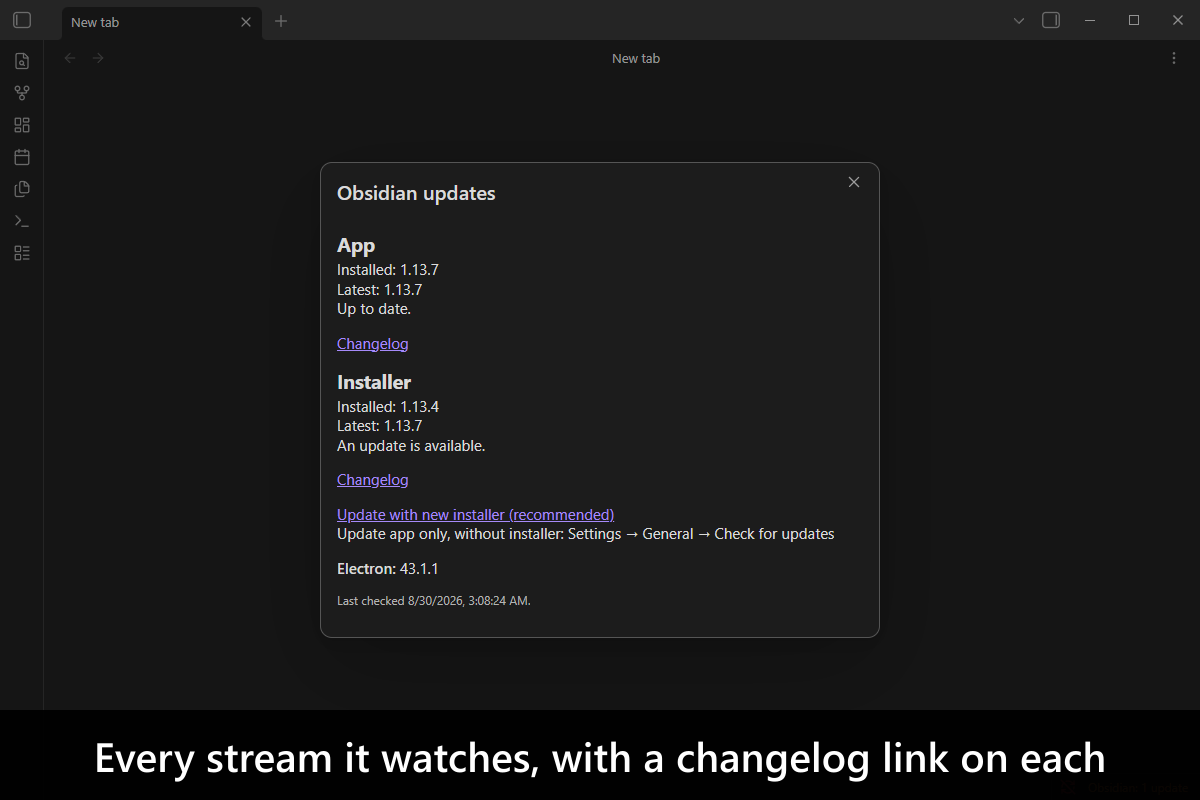
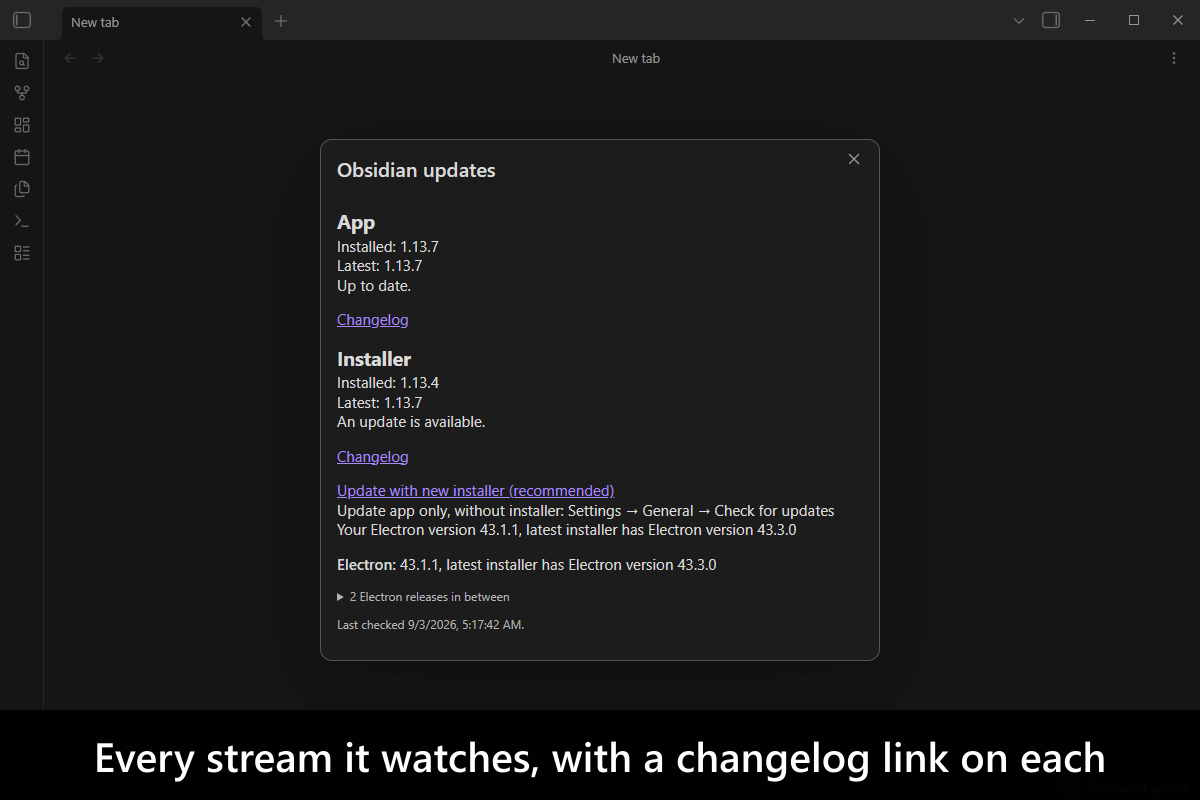
fix(test): pin the capture run's Obsidian, and assert the frame it produces
The store shots could not be recaptured without thought. Shot 2's CONTENT
depended on whichever Obsidian the harness happened to boot: the 2026-09-03
recapture ran against the Catalyst obsidian-1.14.0.asar now provisioned and
rendered "App Installed: 1.14.0 / Latest: 1.13.7 / Up to date." - correct
reporting against the public feed the plugin watches, but a pair that reads as
nonsense to a store visitor, with nothing behind and so no action links at all.
Every assertion the suite had at the time still passed, so the good committed
frame survived only because it was captured on a lucky day.

capture-screenshots:desktop now pins obsidianVersion to public-latest and
obsidianInstallerVersion to 1.13.4. Following the public line keeps the App row
current; an installer frozen well below it keeps the Installer row behind on any
day, because Latest only ever moves up. Shot 2 then asserts that frame - App up
to date, Installer an update is available, and the "Update with new installer
(recommended)" route - so a drifted or unpinned pair fails the capture instead of
overwriting a committed shot. Verified by temporarily un-pinning the installer:
the run failed with "expected 'Installed: 1.13.7Latest: 1.13.7Up to ...' to
contain 'An update is available.'" and left the PNG untouched.

Pinning the installer behind also makes the plugin's own update notice fire on
every run, and the first pinned capture photographed it sitting over the Check
[…]

Changed region(s): [[0.2775, 0.1875, 0.7092, 0.8125]]

diff --git a/src/screenshots.desktop-capture.integration.test.ts b/src/screenshots.desktop-capture.integration.test.ts
@@ -34,9 +34,23 @@
  * premise that `open()` returns without attaching; that premise does not hold for the Obsidian this
  * harness provisions, and the pre-append is gone with it.
  *
- * There is deliberately no "an update is available" shot. Whether anything is behind depends on what
- * Obsidian has released this week and on the version the harness happens to boot, so such a frame could
- * not be produced on demand — and a staged one would be a picture of something the plugin never did.
+ * **Shot 2's content is PINNED, not observed.** Whether anything is behind depends on what Obsidian has
+ * released this week and on the version the harness happens to boot, and left to chance the shot silently
+ * degrades: the 2026-09-03 recapture ran against the Catalyst `obsidian-1.14.0.asar` the harness now
+ * provisions and rendered `App Installed: 1.14.0 / Latest: 1.13.7 / Up to date.` — correct reporting
+ * against the public feed the plugin watches, but a version pair that reads as nonsense to a store
+ * visitor, with nothing behind and so no action links at all (`T971-P41`). `scripts/vitest-config.ts`
+ * therefore pins this project's app to `public-latest` and its installer to `1.13.4`, which produces the
+ * app-current / installer-behind frame on any day, because `Latest` only ever moves up. Nothing is staged:
+ * the plugin is photographed doing exactly what it does on a machine whose installer is behind, which is
+ * the machine this plugin exists for. The `it` below ASSERTS that frame, so a run against a drifted or
+ * unpinned pair fails the capture rather than overwriting a committed shot with a worse one.
+ *
+ * **A capture ALWAYS rewrites all four PNGs, so `git status` is not the check.** The panel prints a real
+ * `Last checked <wall clock>` and the frames carry compression noise regardless — mobile shot 1 moved by
+ * three bytes with no clock anywhere in it — so byte-stability was never on the table and a byte diff is
+ * not signal. The assertions here are the check; judge a recapture on what the frame SHOWS, and restore
+ * any shot whose only difference is the clock or the noise.
  */
 
 import {
@@ -61,13 +75,22 @@ import {
 } from 'vitest';
 
 interface DetailsProbe {
+  readonly actionLinkTexts: string[];
   readonly changelogLinkCount: number;
   readonly statusBarText: string;
-  readonly streamHeadings: string[];
+  readonly streams: StreamProbe[];
 }
 
 interface SettingsProbe {
   readonly settingNames: string[];
+}
+
+/**
+ * One rendered stream section: its heading, and the sentence `describeStatus` put under the two versions.
+ */
+interface StreamProbe {
+  readonly heading: string;
+  readonly summary: string;
 }
 
 /**
@@ -85,6 +108,14 @@ const HEIGHT_IN_PIXELS = 800;
 const PLUGIN_ID = 'app-update-notifier';
 const STATUS_BAR_SELECTOR = '.app-update-notifier-status-bar-item';
 const MODAL_SELECTOR = '.app-update-notifier-details-modal';
+const STREAM_SELECTOR = '.app-update-notifier-stream';
+const NOTICE_SELECTOR = '.notice';
+
+const APP_STREAM_HEADING = 'App';
+const INSTALLER_STREAM_HEADING = 'Installer';
+const UPDATE_AVAILABLE_SUMMARY = 'An update is available.';
+const UP_TO_DATE_SUMMARY = 'Up to date.';
+const NEW_INSTALLER_LINK_TEXT = 'Update with new installer (recommended)';
 
 /*
  * The feed waiting is done from Node rather than inside a closure, for the reason
@@ -124,13 +155,54 @@ describe('desktop store screenshots', () => {
   it('2 - what it found, and where to read about it', async () => {
     const probe = await openDetailsPanel();
 
+    const headings = probe.streams.map((stream) => stream.heading);
+
     expect(probe.statusBarText).toMatch(/^Obsidian: (?:up to date|\d+ updates?)$/);
-    expect(probe.streamHeadings).toContain('App');
-    expect(probe.streamHeadings).toContain('Installer');
-    expect(probe.changelogLinkCount).toBeGreaterThanOrEqual(probe.streamHeadings.length);
+    expect(headings).toContain(APP_STREAM_HEADING);
+    expect(headings).toContain(INSTALLER_STREAM_HEADING);
+    expect(probe.changelogLinkCount).toBeGreaterThanOrEqual(headings.length);
+
+    /*
+     * The frame this shot exists for, and the reason the project pins its versions: the app current, the
+     * installer behind, and the route out of it. Asserted rather than hoped for — every assertion above
+     * passed on the degraded 2026-09-03 frame, which is how a worse shot came within one `git add` of
+     * replacing a good one (`T971-P41`).
+     */
+    expect(summaryOf(probe, APP_STREAM_HEADING)).toContain(UP_TO_DATE_SUMMARY);
+    expect(summaryOf(probe, INSTALLER_STREAM_HEADING)).toContain(UPDATE_AVAILABLE_SUMMARY);
+    expect(probe.actionLinkTexts).toContain(NEW_INSTALLER_LINK_TEXT);
+
     await shoot(2, 'Every stream it watches, with a changelog link on each');
   });
 });
+
+/**
+ * Clears any notice standing over the UI, immediately before a capture.
+ *
+ * Not cosmetic tidying — pinning the installer behind (see the file header) means the plugin's own
+ * "a newer Obsidian installer is available" notice fires on EVERY capture run, and it is large enough to
+ * cover the `Check interval` control and the settings modal's close button in the top right. The first
+ * pinned run photographed exactly that. Whether it is still up when the shutter opens depends on notice
+ * timing against the settle delays, which is the same kind of luck this whole suite is being pinned away
+ * from, so it is removed rather than waited out.
+ *
+ * @returns A {@link Promise} that resolves once the notices are gone and the window has repainted.
+ */
+async function dismissNotices(): Promise<void> {
+  await evalInObsidian({
+    async callback({ noticeSelector }): Promise<void> {
+      const REPAINT_DELAY_IN_MILLISECONDS = 500;
+
+      for (const noticeEl of document.querySelectorAll(noticeSelector)) {
+        noticeEl.remove();
+      }
+
+      await sleep(REPAINT_DELAY_IN_MILLISECONDS);
+    },
+    input: { noticeSelector: NOTICE_SELECTOR },
+    vaultPath: vaultPath()
+  });
+}
 
 /**
  * Waits for a real check, then opens the details panel from the status bar item the way a reader would.
@@ -179,23 +251,34 @@ async function openDetailsPanel(): Promise<DetailsProbe> {
   });
 
   return await evalInObsidian({
-    async callback({ modalSelector, statusBarText: observedStatusBarText }): Promise<DetailsProbe> {
+    async callback({ modalSelector, statusBarText: observedStatusBarText, streamSelector }): Promise<DetailsProbe> {
       const SETTLE_DELAY_IN_MILLISECONDS = 1500;
 
       await sleep(SETTLE_DELAY_IN_MILLISECONDS);
 
       const modalEl = document.querySelector(modalSelector);
+      const streamEls = [...modalEl?.querySelectorAll(streamSelector) ?? []];
       return {
+        /*
+         * Only the links INSIDE a stream section, which is where `appendUpdateActions` renders the update
+         * routes; the panel's other anchors (the Electron span, the download page) are not routes.
+         */
+        actionLinkTexts: streamEls.flatMap((streamEl) => [...streamEl.querySelectorAll('a')].map((el) => el.textContent)),
         changelogLinkCount: [...modalEl?.querySelectorAll('a') ?? []]
           .filter((el) => (el.getAttribute('href') ?? '').startsWith('https://obsidian.md/changelog'))
           .length,
         statusBarText: observedStatusBarText,
-        streamHeadings: [...modalEl?.querySelectorAll('h3') ?? []].map((el) => el.textContent)
+        streams: streamEls.map((streamEl) => ({
+          heading: streamEl.querySelector('h3')?.textContent ?? '',
+          // The first paragraph is the one carrying both versions and `describeStatus`'s verdict.
+          summary: streamEl.querySelector('p')?.textContent ?? ''
+        }))
       };
     },
     input: {
       modalSelector: MODAL_SELECTOR,
-      statusBarText
+      statusBarText,
+      streamSelector: STREAM_SELECTOR
     },
     vaultPath: vaultPath()
   });
@@ -253,6 +336,8 @@ async function openSettingsTab(): Promise<SettingsProbe> {
  * @param caption - The caption drawn across the bottom of the frame.
  */
 async function shoot(index: number, caption: string): Promise<void> {
+  await dismissNotices();
+
   const bytes = await captureObsidianScreenshot({
     heightInPixels: HEIGHT_IN_PIXELS,
     vaultPath: vaultPath(),
@@ -268,6 +353,18 @@ async function shoot(index: number, caption: string): Promise<void> {
 
   mkdirSync(IMAGES_DIRECTORY, { recursive: true });
   writeFileSync(join(IMAGES_DIRECTORY, `screenshot-desktop-${String(index)}.png`), labeled);
+}
+
+/**
+ * Reads back what one stream section said about itself.
+ *
+ * @param probe - What the panel rendered.
+ * @param heading - The stream's heading, e.g. `App`.
+ * @returns The stream's first paragraph, or the empty string when the panel rendered no such stream —
+ * which fails the caller's `toContain` and names the missing stream in the diff.
+ */
+function summaryOf(probe: DetailsProbe, heading: string): string {
+  return probe.streams.find((stream) => stream.heading === heading)?.summary ?? '';
 }
 
 function vaultPath(): string {

diff --git a/src/screenshots.android-capture.integration.test.ts b/src/screenshots.android-capture.integration.test.ts
@@ -16,6 +16,19 @@
  *
  * There is no mobile equivalent of the desktop viewport override, so the capture is always the device's
  * own framebuffer, and the AVD is built at exactly 900x1600.
+ *
+ * **These shots are not byte-stable, and were never going to be.** Shot 1 is the settings panel — no
+ * clock, no timestamp, nothing time-dependent in the frame — and it still came back 3 bytes different
+ * between two runs of an unchanged plugin (136378 → 136381), so the churn is compression noise rather
+ * than anything that could be blanked out (`T971-P41`). A capture always rewrites both PNGs; `git status`
+ * is not the check, the assertions are, and a shot whose only difference is that noise should be
+ * restored rather than committed.
+ *
+ * **There is also no version pin here, unlike the desktop half.** `scripts/vitest-config.ts` pins the
+ * desktop capture's app and installer so shot 2 always shows something behind, but the Android transport
+ * exposes no version knob at all — the app is whatever APK the AVD carries — and the mobile panel has no
+ * installer stream to be behind in the first place. That is why the mobile shot promises only the app
+ * stream with its changelog link, and asserts nothing about anything being out of date.
  */
 
 import {
@@ -61,6 +74,7 @@ const HEIGHT_IN_PIXELS = 1600;
 const PLUGIN_ID = 'app-update-notifier';
 const STATUS_BAR_SELECTOR = '.app-update-notifier-status-bar-item';
 const MODAL_SELECTOR = '.app-update-notifier-details-modal';
+const NOTICE_SELECTOR = '.notice';
 
 /*
  * The waiting is done from Node rather than inside a closure, for the reason
@@ -107,6 +121,33 @@ describe('mobile store screenshots', () => {
     await shoot(2, 'The app stream, with a changelog link — no installer on mobile');
   });
 });
+
+/**
+ * Clears any notice standing over the UI, immediately before a capture.
+ *
+ * The desktop twin needs this because its pinned installer makes the plugin's own update notice fire on
+ * every run; nothing is pinned here, so whether a notice is up depends on what the AVD's Obsidian is
+ * against the public feed that day. Either way a toast across the panel is not what the shot promises,
+ * and whether it has faded by the time the shutter opens is exactly the luck this suite is being taken
+ * out of.
+ *
+ * @returns A {@link Promise} that resolves once the notices are gone and the device has repainted.
+ */
+async function dismissNotices(): Promise<void> {
+  await evalInObsidian({
+    async callback({ noticeSelector }): Promise<void> {
+      const REPAINT_DELAY_IN_MILLISECONDS = 500;
+
+      for (const noticeEl of document.querySelectorAll(noticeSelector)) {
+        noticeEl.remove();
+      }
+
+      await sleep(REPAINT_DELAY_IN_MILLISECONDS);
+    },
+    input: { noticeSelector: NOTICE_SELECTOR },
+    vaultPath: vaultPath()
+  });
+}
 
 /**
  * Waits for a real check, then opens the details panel through the plugin's own command.
@@ -232,6 +273,8 @@ async function openSettingsTab(): Promise<SettingsProbe> {
  * @param caption - The caption drawn across the bottom of the frame.
  */
 async function shoot(index: number, caption: string): Promise<void> {
+  await dismissNotices();
+
   const bytes = await captureObsidianScreenshot({
     heightInPixels: HEIGHT_IN_PIXELS,
     vaultPath: vaultPath(),

diff --git a/scripts/vitest-config.ts b/scripts/vitest-config.ts
@@ -29,6 +29,37 @@ const ANDROID_CAPTURE_TEST_FILES = 'src/**/*.android-capture.integration.test.ts
  */
 const SCREENSHOT_AVD_NAME = 'obsidian_screenshots';
 
+/**
+ * The Electron shell (installer build) the desktop shots are taken on, frozen deliberately.
+ *
+ * Shot 2 is the details panel, and the frame worth putting in front of a store visitor is the one where
+ * the plugin has something to report: the app current, the installer behind, and the two update routes in
+ * view. An installer frozen well below the public line produces that frame on ANY day, because `Latest`
+ * only ever moves up — where an unpinned run produces whatever the machine happens to have. `1.13.4` is
+ * the exact installer the committed 2026-08-30 shot ran, so a recapture reproduces that frame rather than
+ * replacing it.
+ *
+ * When a future `public-latest` asar stops booting on this shell the harness throws
+ * `IncompatibleInstallerVersionError` from version resolution, before anything is launched — a loud
+ * prompt to raise this pin, never a silently worse screenshot.
+ */
+const CAPTURE_INSTALLER_VERSION = '1.13.4';
+
+/**
+ * The Obsidian app version (asar) the desktop shots are taken on.
+ *
+ * `public-latest` rather than the user's installed copy, because the harness now provisions a Catalyst
+ * build: the 2026-09-03 recapture booted `1.14.0` and the panel read `Installed: 1.14.0 / Latest: 1.13.7 /
+ * Up to date.` — the plugin reporting correctly against the PUBLIC feed it watches, but a version pair
+ * that reads as nonsense to a store visitor (`T971-P41`). Following the public line keeps the App row
+ * saying `Up to date.` and keeps the shots on current Obsidian chrome.
+ *
+ * This overrides the `OBSIDIAN_VERSION` escape hatch `obsidian-dev-utils` honours on
+ * `integration-tests:desktop`, for this project only: a capture is not a test run, and a screenshot taken
+ * against an arbitrary version is the defect above.
+ */
+const CAPTURE_OBSIDIAN_VERSION = 'public-latest';
+
 const APPIUM_URL = 'http://localhost:4723';
 
 /**
@@ -60,6 +91,13 @@ export const config = defineObsidianPluginVitestConfig({
       {
         test: {
           ...context.desktop,
+          environmentOptions: {
+            obsidianTransport: {
+              obsidianInstallerVersion: CAPTURE_INSTALLER_VERSION,
+              obsidianVersion: CAPTURE_OBSIDIAN_VERSION,
+              type: 'obsidian-cdp'
+            }
+          },
           include: [DESKTOP_CAPTURE_TEST_FILES],
           name: 'capture-screenshots:desktop'
         }

diff --git a/AGENTS.md b/AGENTS.md
@@ -6,7 +6,7 @@
 - **`ipcRenderer.sendSync('insider-build', null)` must keep its `null`.** That channel is read/write: with a boolean it WRITES the setting (`app.js:202189`), and only `null` reads it (`app.js:202186`). A unit test asserts the argument, because the call reads like a stray parameter waiting to be tidied away and tidying it away would silently switch a user's release channel.
 - **`MIN_RECOMMENDED_ELECTRON_VERSION` in `src/release-streams.ts` is hard-coded to `28.2.3`**, mirroring the constant Obsidian compiles into its own bundle (`app.js:222745`, compared at `:160712`). There is no API in front of it. It is now a FALLBACK rather than the only source — `resolveElectronStatus` prefers `minRecommendedElectronVersion` from the metadata feed when that records one for the running version — but the constant stays, because the feed records it for almost nothing (only `1.13.0` and `1.13.1` of the whole `1.13.x` line). Re-check it against `obsidian-versions` when a new Obsidian version lands. Note the plugin deliberately does NOT repeat Obsidian's own label for that check — Obsidian calls it "installer version too low" while what it compares is the Electron version, and the panel names Electron.
 - **`src/obsidian-metadata-api.ts` is an ENRICHMENT feed, and is kept out of `obsidian-releases-api.ts` because the two have opposite failure contracts.** Every source in `obsidian-releases-api.ts` is Obsidian's own and is fatal on failure: a check that cannot read them does not know the answer. `metadata.json` (`obsidian-integration-testing`, served from `raw.githubusercontent.com`) is a third-party mirror, so `fetchOptionalMetadata` in `update-checker-component.ts` swallows its rejection to `null` while the other three keep failing the check. It is consulted FIRST and never INSTEAD — every resolver reaches the same answer without it that it reached before the feed existed. Two properties force that discipline, both measured 2026-08-30: it **lags** (GitHub had `v1.13.8` while the feed's newest entry was `1.13.7`), and it is **sparse** (`runtimeVersions` on 103 of 325 entries). It is also the plugin's only non-Obsidian runtime dependency, which matters for the community-store submission (`T720-P41`); enrichment-only is what keeps it off the critical path.
-- **The Electron-span half of the notice and the panel is deliberately DARK, and lights up on its own.** `ElectronStatus.targetVersion` is `null` for every current Obsidian, because `runtimeVersions` is absent from every `1.13.x` metadata entry — tracked as `T717-P2`. Nothing guesses, and nothing renders "unknown"; the sentence and the span simply do not appear. When `T717-P2` backfills the field they start rendering with no second pass through this code. Their branches are covered by fixture-driven unit tests (`electron-span.test.ts`, `update-details-modal.test.ts`), which is the only way to exercise them today; `update-actions.cross-platform.integration.test.ts` records why it does not assert them.
+- **The Electron-span half of the notice and the panel was deliberately DARK, and has now LIT UP on its own, with no second pass through this code.** It was written when `ElectronStatus.targetVersion` was `null` for every current Obsidian, `runtimeVersions` being absent from every `1.13.x` metadata entry (`T717-P2`); nothing guesses and nothing renders "unknown", so the sentence and the span simply did not appear. `T717-P2` landed the backfill on 2026-08-30 and the branch is live: measured 2026-09-03 against the feed, `1.13.4` carries `electron: 43.1.1` and `1.13.7` carries `43.3.0` (106 of 325 entries now have `runtimeVersions`, newest `1.13.7`), and the pinned capture run renders both "Your Electron version 43.1.1, latest installer has Electron version 43.3.0" and the collapsed "2 Electron releases in between" — `images/screenshots/screenshot-desktop-2.png` is the frame. It stays dark where the feed is still sparse: `1.14.0` has no entry, so someone on the newest Catalyst build sees no span. The branches remain covered by fixture-driven unit tests (`electron-span.test.ts`, `update-details-modal.test.ts`); `update-actions.cross-platform.integration.test.ts` records why it does not assert them.
 - **`https://releases.electronjs.org/releases.json` is 1.28 MB, so it is fetched ONLY when the details modal is opened** — never on the hourly check. `src/electron-releases-api.ts` has exactly one caller, `UpdateDetailsModal.loadElectronSpan`. The span it feeds is bounded by `MAX_LISTED_ELECTRON_RELEASES` (20) and collapses to one release per major beyond that, because the span reaches **245** stable releases for someone on an old installer — which is precisely this plugin's audience. The number dropped is always rendered; silently truncating 245 links to 12 would read as "that is all of them".
 - **The Catalyst gate reads `insider-build` ONE-DIRECTIONALLY, and the wording depends on it.** Obsidian hides and forces the toggle `false` when there is no license (`app.js:202195-202197`), so `true` implies a license while `false` is ambiguous — no license, or licensed with the toggle off. The license itself is unreadable: it lives on the module-private singleton `Nk` (`app.js:66191`), which escapes to neither `window` nor `app`, and the typings expose no `account`. So the gate says what is NEEDED ("needs a Catalyst license, with insider builds switched on in Settings → General") and never what the reader lacks. A unit test asserts the negative.
 - **"Update app only" is a PATH, not a button — `Settings → General → Check for updates`.** The tab's internal id is `about` (`app.js:202140`) while its display name is "General" (`i18n.js`, `about.name`), so user-facing text says General and any code that ever navigates there must use `'about'`. The app's own button is at `app.js:202542`; the three other `buttonCheckForUpdates` call sites are appearance/themes (`:163381`) and Community plugins (`:218431`, `:219139`) and are NOT it. A button was rejected because the real handler is a module-private updater a plugin could only reach by matching LOCALIZED button text in the DOM.
@@ -19,3 +19,5 @@
 - **A test that opens the details panel must first wait for a check to reach a real answer.** The panel renders whatever the last check resolved, so `executeCommandById('…:check-for-updates')` on an instance that has not finished one opens a modal with no streams in it — and nothing throws. Poll the status bar item until its text stops saying "not checked", THEN open the panel. This is not hypothetical: the Android capture suite, run against the harness's own freshly booted emulator, captured an empty panel and failed with `expected [] to include 'App'`, because on a cold AVD the device has no validated network for roughly its first 80 seconds (`T934-P2`) while every readiness signal the harness gates on has long since cleared. The failure is worse than a timeout — the test runs to completion against a silently empty result — so the wait is what makes the shot mean anything.
 - **A desktop test that opens `app.setting` must first turn `settingsPopoutWindow` off, or the settings render in a second Electron window.** `app.setting` is popout-capable: `shouldUsePopout()` returns `app.vault.getConfig('settingsPopoutWindow')`, and **Obsidian's own default config sets that key to `true`** — verified in the shipped bundles of both `obsidian-1.14.0.asar` (what the harness provisions) and 1.13.7, so it is a long-standing default rather than a new regression. The popout branch is taken whenever `Platform.canPopoutWindow`, i.e. `isDesktopApp && isDesktop` — every desktop run, no mobile one. It creates a real second window, reassigns the `activeWindow` / `activeDocument` globals to it, and the base `Modal.open()` then appends `getRootEl()` (`modalEl`, for a popout) into THAT window's document, leaving the main document with none of the settings UI. Measured 2026-09-03 (`T962-P41`): after `open()` the main document held three `.setting-item-name` rows, all of them the search sidebar's. A suite that only ASSERTS can sidestep this by reading `settingTab.containerEl` — an object reference, wherever it lives — but `screenshots.desktop-capture.integration.test.ts` cannot, because `captureObsidianScreenshot` photographs the main window and a popout yields a frame with no settings in it and no error to say so. The `setConfig` call needs a cast through a local `VaultWithPopoutConfig` interface, because `obsidian-typings`' `ConfigItem` union omits the key (`T970-P8`). The durable fix is a harness one — `obsidian-integration-testing` should write `settingsPopoutWindow: false` into the temp vault's `app.json` beside the `alwaysUpdateLinks` it already writes (`T969-P2`) — after which the local call and its cast come out.
 - **`app.setting.open()` attaches `containerEl` itself; do not pre-append it.** An earlier `screenshots.desktop-capture.integration.test.ts` appended `app.setting.containerEl` to `document.body` before calling `open()`, on the premise that `open()` returns without attaching and the modal would otherwise build into a detached tree. That premise does not hold for the Obsidian this harness provisions: measured in the same 2026-09-03 run, with the popout suppressed, `document.body.contains(containerEl)` went from `false` before the call to `true` after it, with `modalEl` inside — 1.14.0's `Modal.open()` does `activeWindow.document.body.appendChild(this.getRootEl())`, and the settings modal lazily appends `modalEl` into `containerEl` at open time. The pre-append and its `SettingsModalWithContainer` interface are gone. What actually broke the shot was the popout above, which the pre-append could never have fixed.
+- **The screenshot capture project PINS the Obsidian it photographs; the regular test projects do not.** `capture-screenshots:desktop` in `scripts/vitest-config.ts` sets `obsidianVersion: 'public-latest'` and `obsidianInstallerVersion: '1.13.4'`, and `screenshots.desktop-capture.integration.test.ts` asserts the resulting frame (App `Up to date.`, Installer `An update is available.`, the `Update with new installer (recommended)` route). Unpinned, shot 2's CONTENT is whatever the harness happened to boot: the 2026-09-03 recapture ran against the Catalyst `obsidian-1.14.0.asar` and rendered `App Installed: 1.14.0 / Latest: 1.13.7 / Up to date.` — the plugin reporting correctly against the public feed it watches, but a pair that reads as nonsense to a store visitor, with nothing behind and so no action links, and every assertion the suite had at the time still passed (`T971-P41`). Following the public line keeps the App row current; an installer frozen well below it keeps the Installer row behind on ANY day, because `Latest` only ever moves up. This deliberately overrides the `OBSIDIAN_VERSION` escape hatch `obsidian-dev-utils` honours on `integration-tests:desktop`, for the capture project only — a screenshot taken against an arbitrary version is the defect above, not a feature. When a future `public-latest` asar stops booting on the pinned shell the harness throws `IncompatibleInstallerVersionError` from version resolution, before launch: raise the installer pin then. The Android half takes no such pin because the Appium transport exposes no version knob and the mobile panel has no installer stream.
+- **A capture run ALWAYS rewrites all four PNGs, so a dirty tree after `npm run capture:screenshots` is not a finding.** The details panel prints a real `Last checked <wall clock>`, and the frames carry compression noise on top of that: mobile shot 1 is the settings panel — no clock in it — and still moved 136378 → 136381 between two runs of an unchanged plugin. Byte-stability is therefore unreachable, and blanking the timestamp would buy a frame of a panel state the plugin never renders while still leaving the tree dirty; the decision (owner, 2026-09-03, `T971-P41`) is to keep the real timestamp and guard the frame's CONTENT with assertions instead. Judge a recapture on what the shot SHOWS, and restore any whose only difference is the clock or the noise.
